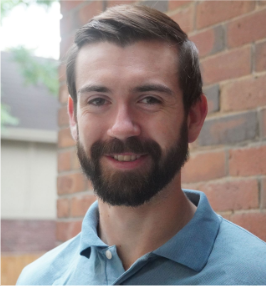
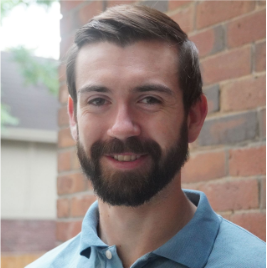
square-ify + tidy-ify
Making everything square and adding in pictures!

diff --git a/ejs/pages/people/body.html b/ejs/pages/people/body.html
@@ -3,7 +3,7 @@
   <h1>People</h1>
 
   <p>
-    The ART is made up of researchers across astrophysics, statistics, and computer science spanning a wide range of career stages. More information about individual members of the group can be found below.
+    The ART is made up of researchers across astrophysics, statistics, and data science spanning a wide range of career stages. More information about individual members of the group can be found below.
   </p>
 
   <br>
@@ -16,11 +16,9 @@
         <img class="person-thumbnail" src="/static/GwendolynEadie_2018.jpg" alt= "A picture of Gwendolyn Eadie.">
         <div class="card-section">
           <span class="h3">Gwendolyn Eadie</span>
-          <p>Gwen is an Assistant Professor of Astrostatistics, jointly appointed between the David A. Dunlap Department of Astronomy & Astrophysics (51%) 
-and the Department of Statistical Sciences (49%). Her research interests includes hierarchical Bayesian inference, generalized linear models, spatial point processes, and time
-series analysis for the study of the Milky Way Galaxy, ultra-diffuse galaxies, star clusters and globular clusters, stars and stellar flares,
- and fast radio bursts. 
-          <a href=https://gweneadie.com/>Personal Website</a>    
+          <p>
+Gwen is an Assistant Professor of Astrostatistics, jointly appointed between the <a href=https://www.astro.utoronto.ca/>David A. Dunlap Department of Astronomy & Astrophysics</a> (51%) and the <a href=https://www.statistics.utoronto.ca/>Department of Statistical Sciences</a> (49%). Her research interests includes hierarchical Bayesian inference, generalized linear models, spatial point processes, and time series analysis for the study of the Milky Way Galaxy, ultra-diffuse galaxies, star clusters and globular clusters, stars and stellar flares, and fast radio bursts. 
+<a href=https://gweneadie.com/>Personal Website</a>    
           </p>
         </div>
       </div>
@@ -30,11 +28,9 @@ series analysis for the study of the Milky Way Galaxy, ultra-diffuse galaxies, s
         <img class="person-thumbnail" src="/static/NSERC_Speagle_Joshua_thumbnail.jpg" alt= "A picture of Joshua Speagle.">
         <div class="card-section">
           <span class="h3">Joshua S. Speagle (沈佳士)</span>
-          <p> Josh is an Assistant Professor of Astrostatistics, jointly appointed between the Department of Statistical Sciences (51%) 
-and the David A. Dunlap Department of Astronomy & Astrophysics (49%). His work focuses on using a combination of astronomy, 
-statistics, data science, and AI to analze massive datasets containing
- billions of stars and galaxies to understand how galaxies like our own Milky Way form, behave, and evolve over time. 
-          <a href=https://joshspeagle.com/>Personal Website</a>    
+          <p> 
+Josh is an Assistant Professor of Astrostatistics, jointly appointed between the Department of Statistical Sciences (51%) and the David A. Dunlap Department of Astronomy & Astrophysics (49%). His work focuses on using a combination of astronomy, statistics, data science, and artificial intelligence (AI) to analze massive datasets containing billions of stars and galaxies to understand how galaxies like our own Milky Way (and the stars within it) form, behave, and evolve over time. 
+<a href=https://joshspeagle.com/>Personal Website</a>    
           </p>
         </div>
       </div>
@@ -48,10 +44,13 @@ statistics, data science, and AI to analze massive datasets containing
   <div class="grid-x grid-margin-x small-up-1 medium-up-2">
     <div class="cell">
       <div class="card">
-        <img class="person-thumbnail" />
+        <img class="person-thumbnail" src="/static/TonyH.jpg" alt= "A picture of Antonio Herrera Martin.">
         <div class="card-section">
           <span class="h3">Antonio Herrera Martin</span>
-          <p>Bio here...</p>
+          <p>
+Antonio (Tony) is a postdoctoral fellow in the Department of Statistical Sciences. He works in the ART as part of a <a href=https://canssi.ca/>Canadian Statistical Sciences Institute (CANSSI)</a> Collaborative Research Team led by Professor Gwendolyn Eadie, as well as in the <a href=https://chime-experiment.ca/en>Canadian Hydrogen Intensity Mapping Experiment (CHIME)</a>, which studies fast radio bursts. His primary research interest is in the study of data analysis methods for astrophysical data. Throughout his career, Antonio has researched a wide range of topics in physics and astronomy, including the evolution of the Universe, dark matter via gravitational lensing, the inference of parameters for gravitational waves, and the search of extrasolar planets using microlensing data. He received his PhD in Physics and Astronomy from the University of Glasgow. Outside of work, he enjoys practicing pixel art, software development, and dancing. 
+<a href=https://alfa33333.github.io/>Personal Website</a>    
+          </p>
         </div>
       </div>
     </div>
@@ -78,16 +77,22 @@ statistics, data science, and AI to analze massive datasets containing
         <img class="person-thumbnail" />
         <div class="card-section">
           <span class="h3">Tanveer Karim</span>
-          <p>Tanveer Karim is an Arts & Sciences Postdoctoral Fellow at the University of Toronto and a member of the Dark Energy Spectroscopic Instrument (DESI) collaboration and the Dark Energy Science Collaboration (DESC). His current research interest is developing frameworks to constrain cosmological models by cross-correlating multiple surveys and improving interpretability of the constraints to address various cosmological tensions. Previously, he has also extensively worked on target selection of emission-line galaxies for DESI, mitigation of observational systematics, as well as projects pertaining to the Milky Way and analysis of stellar rotation periods. Outside of research, Tanveer loves to learn languages, play board games and read books. <a href= https://tanveerkarim.com/>Personal Website</a></p>
+          <p>
+Tanveer is an Arts & Sciences Postdoctoral Fellow at the David A. Dunlap Department of Astronomy & Astrophysics and a member of the <a href=https://www.desi.lbl.gov/>Dark Energy Spectroscopic Instrument (DESI)</a> collaboration and the <a href=https://lsstdesc.org/>Dark Energy Science Collaboration (DESC)</a>. His current research interests include developing frameworks to constrain cosmological models by cross-correlating multiple surveys and improving interpretability of the constraints to address various cosmological tensions. Previously, he has also extensively worked on target selection of emission-line galaxies for DESI, mitigation of observational systematics, as well as projects pertaining to the Milky Way and analysis of stellar rotation periods. Outside of research, Tanveer loves to learn languages, play board games, and read books. 
+<a href= https://tanveerkarim.com/>Personal Website</a>
+          </p>
         </div>
       </div>
     </div>
     <div class="cell">
       <div class="card">
-        <img class="person-thumbnail" />
+        <img class="person-thumbnail" src="/static/KevinMcK_headshot.jpg" alt= "A picture of Kevin McKinnon.">
         <div class="card-section">
           <span class="h3">Kevin McKinnon</span>
-          <p>Kevin is a CITA Postdoctoral Researcher whose research focuses predominantly on understanding how the Milky Way formed and evolved through Galactic Archeology. On the dynamics side, he is currently using hierarchical Bayesian models to combine archival Hubble Space Telescope images with Gaia data to measure significantly improved astrometry, particularly for faint stars. For stellar parameters and chemistry, Kevin is working with the Sloan Digital Sky Survey V (SDSS-V) to help improve the APOGEE spectral reduction and abundance pipelines for the Milky Way Mapper program.</p>
+          <p>
+Kevin is a <a href=https://www.cita.utoronto.ca/>Canadian Institute for Theoretical Astrophysics (CITA)</a> Postdoctoral Researcher whose research focuses predominantly on understanding how the Milky Way formed and evolved through Galactic Archeology. On the dynamics side, he is currently using hierarchical Bayesian models to combine archival <a href=https://hubblesite.org/home>Hubble Space Telescope</a> images with <a href=https://www.esa.int/Science_Exploration/Space_Science/Gaia>Gaia</a> data to measure significantly improved astrometry, particularly for faint stars. For stellar parameters and chemistry, Kevin is working with the <a href=https://www.sdss.org/>Sloan Digital Sky Survey V (SDSS-V)</a> to help improve the <a href=https://www.sdss.org/instruments/apogee-spectrographs/>APOGEE</a> spectral reduction and abundance pipelines for the Milky Way Mapper program. 
+<a href= https://www.kevinmckinnon.com/>Personal Website</a>
+          </p>
         </div>
       </div>
     </div>
@@ -100,16 +105,12 @@ statistics, data science, and AI to analze massive datasets containing
   <div class="grid-x grid-margin-x small-up-1 medium-up-2">
     <div class="cell">
       <div class="card">
-        <img class="person-thumbnail" />
+        <img class="person-thumbnail" src="/static/AmandaCook_Profile.png" alt= "A picture of Amanda Cook.">
         <div class="card-section">
           <span class="h3">Amanda Cook</span>
-          <p> Amanda is a Ph.D. candidate in Astronomy and Astrophysics at the University of Toronto, 
-            supervised by Profs. Bryan Gaensler, Gwen Eadie, and Paul Scholz, and she is a member of 
-            the CHIME/FRB Collaboration. Amanda develops and employs statistical methods to solve astrophysics 
-            problems related to fast radio bursts, high-energy astrophysics, and circumgalactic media. 
-            Prior to entering graduate school, she received an honors mathematics and physics degree from
-            McGill University, and held a variety of summer research positions including at NASA JPL and the University of Kyoto. 
-            <a href="https://www.astro.utoronto.ca/~cook/">Personal Website</a>
+          <p> 
+Amanda is a Ph.D. candidate in the David A. Dunlap Department of Astronomy & Astrophysics supervised by Profs. <a href=https://bryangaensler.net/>Bryan Gaensler</a> (UCSC), Gwen Eadie, and <a href=https://www.yorku.ca/science/profiles/faculty/paul-scholz/>Paul Scholz</a> (York University). She is also a member of the CHIME/FRB Collaboration. Amanda develops and employs statistical methods to solve astrophysics problems related to fast radio bursts, high-energy astrophysics, and circumgalactic media. Prior to entering graduate school, she received an honors mathematics and physics degree from McGill University, and held a variety of summer research positions including at NASA JPL and the University of Kyoto. 
+<a href="https://www.astro.utoronto.ca/~cook/">Personal Website</a>
           </p>
         </div>
       </div>
@@ -143,48 +144,45 @@ statistics, data science, and AI to analze massive datasets containing
     </div>
     <div class="cell">
       <div class="card">
-        <img class="person-thumbnail" />
+        <img class="person-thumbnail" src="/static/slizewski.jpg" alt= "A picture of Anika Slizewski.">
         <div class="card-section">
           <span class="h3">Anika Slizewski</span>
-          <p>Anika is a second-year graduate student at the University of Toronto who works with Gwen Eadie on improving statistical methods of estimating masses of astronomical systems. They are interested in uncertainty analysis and have done work with outlier detection and dimensionality reduction of multiwavelength image data. Anika’s long-term goal is to develop a consistent and accurate way to combine data from multiple types of populations to estimate properties of the Galaxy.</p>
-        </div>
-      </div>
-    </div>
-    <div class="cell">
-      <div class="card">
-        <img class="person-thumbnail" />
-        <div class="card-section">
-          <span class="h3">Alex Laroche</span>
-          <p>Alex is a second year graduate student in the David A. Dunlap Department of Astronomy & Astrophysics co-supervised by Josh Speagle and Maria Drout. His research focuses on a combination of machine learning and stellar evolution. Specifically, he develops data-driven models to discover 'needles in a haystack': new, rare stellar populations in large-scale surveys. Subsequently, he attempts to understand the nature of these rare populations through a combination of follow-up observations and stellar evolution models. On the machine learning side, he has developed a purely data-driven model for low-resolution Gaia BP/RP spectra based on variational-autoencoders. On the stellar evolution side, he is focused on binary-stripped helium stars and carbon-enhanced metal poor stars. <a href=https://alexlaroche7.github.io/>Personal Website</a></p>
-        </div>
-      </div>
-    </div>
-    <div class="cell">
-      <div class="card">
-        <img class="person-thumbnail" />
-        <div class="card-section">
-          <span class="h3">Phil Van-Lane</span>
-          <p> Phil is a 2nd year PhD student in Astronomy & Astrophysics co-supervised by Drs. Eadie and Speagle, 
-and Dr. Ryan Cloutier from McMaster University. His research focuses on leveraging machine learning and statistical
- methods to develop stellar dating methods using rotation and magnetic activity data, with a focus on M dwarfs.
- His long-term goal is to build a catalogue of M dwarf ages, and use these constraints to inform exoplanet evolutionary analyses. 
-He previously completed his BSc at University of Waterloo in Earth Sciences with a Geophysics specialization,
- then worked in engineering consulting, software development, data engineering, and product management roles for several years before beginning his PhD in Fall 2022.
+          <p>
+Anika is a second-year graduate student at the David A. Dunlap Department of Astronomy & Astrophysics who works with Gwen Eadie on improving statistical methods of estimating masses of astronomical systems. They are interested in uncertainty analysis and have done work with outlier detection and dimensionality reduction of multiwavelength image data. Anika’s long-term goal is to develop a consistent and accurate way to combine data from multiple types of populations to estimate properties of the Galaxy.
           </p>
         </div>
       </div>
     </div>
     <div class="cell">
       <div class="card">
-        <img class="person-thumbnail" />
+        <img class="person-thumbnail" src="/static/Alex_Headshot.png" alt= "A picture of Alex Laroche.">
+        <div class="card-section">
+          <span class="h3">Alex Laroche</span>
+          <p>
+Alex is a second year graduate student in the David A. Dunlap Department of Astronomy & Astrophysics co-supervised by Josh Speagle and <a href=https://www.astro.utoronto.ca/~drout/>Maria Drout</a>. His research focuses on a combination of machine learning and stellar evolution. Specifically, he develops data-driven models to discover 'needles in a haystack': new, rare stellar populations in large-scale surveys. Subsequently, he attempts to understand the nature of these rare populations through a combination of follow-up observations and stellar evolution models. On the machine learning side, he has developed a purely data-driven model for low-resolution Gaia BP/RP spectra based on variational-autoencoders. On the stellar evolution side, he is focused on binary-stripped helium stars and carbon-enhanced metal poor stars. 
+<a href=https://alexlaroche7.github.io/>Personal Website</a>
+          </p>
+        </div>
+      </div>
+    </div>
+    <div class="cell">
+      <div class="card">
+        <img class="person-thumbnail" src="/static/Phil_Headshot.png" alt= "A picture of Phil Van-Lane.">
+        <div class="card-section">
+          <span class="h3">Phil Van-Lane</span>
+          <p> 
+Phil is a 2nd year PhD student in the David A. Dunlap Department of Astronomy & Astrophysics co-supervised by Drs. Eadie and Speagle and Dr. <a href=https://r-cloutier.github.io/>Ryan Cloutier</a> (McMaster). His research focuses on leveraging machine learning and statistical methods to develop stellar dating methods using rotation and magnetic activity data, with a focus on low-mass stars known as M dwarfs. His long-term goal is to build a catalogue of M dwarf ages and use these constraints to inform exoplanet evolutionary analyses. He previously completed his BSc at University of Waterloo in Earth Sciences with a Geophysics specialization, then worked in engineering consulting, software development, data engineering, and product management roles for several years before beginning his PhD in Fall 2022.
+          </p>
+        </div>
+      </div>
+    </div>
+    <div class="cell">
+      <div class="card">
+        <img class="person-thumbnail" src="/static/Maggie_Zhai_headshot.png" alt= "A picture of Maggie Zhai.">
         <div class="card-section">
           <span class="h3">Maggie Zhai</span>
-          <p> Maggie is a first-year PhD student in the Department of Statistical Sciences 
-            is co-advised by Professors Gwendolyn Eadie and Joshua Speagle. Her research broadly
-            focuses on citizen science projects to determine how to improve classification accuracy
-            through volunteer user input, and is interested in using these methods to improve image 
-            classification accuracy within Galaxy Zoo. Prior to UofT, she completed her MS in Statistics 
-            from San Diego State University and BS in Mathematics from UC San Diego.
+          <p> 
+Maggie is a first-year PhD student in the Department of Statistical Sciences co-advised by Professors Gwendolyn Eadie and Joshua Speagle. Her research broadly focuses on citizen science projects to determine how to improve classification accuracy through volunteer user input, and is interested in using these methods to improve image classification accuracy within <a href=https://www.zooniverse.org/projects/zookeeper/galaxy-zoo/>Galaxy Zoo</a>. Prior to joining the University of Toronto, she completed her MS in Statistics from San Diego State University and BS in Mathematics from UC San Diego.
           </p>
         </div>
       </div>
@@ -277,13 +275,12 @@ He previously completed his BSc at University of Waterloo in Earth Sciences with
   <ul>
     <li>Yihan (Christine) Wang</li>
     <li>Qianyu (Rita) Fan</li>
-    <li>Matt Kustec</li>
+    <li>Matthew Kustec</li>
     <li>Max Zabrodski</li>
     <li>Hannah Guo</li>
-    <li>Belle Pensamiento</li>
   </ul>
 
-  <h2>Alumni</h2>
+  <h2>Recent Alumni</h2>
   
   <div class="grid-x grid-margin-x small-up-1 medium-up-2">
     <div class="cell">
@@ -295,6 +292,18 @@ He previously completed his BSc at University of Waterloo in Earth Sciences with
         </div>
       </div>
     </div>
+    <div class="cell">
+      <div class="card">
+        <img class="person-thumbnail" src="/static/olga_st-onge.jpg" alt= "A picture of Olga St-Onge.">
+        <div class="card-section">
+          <span class="h3">Olga St-Onge</span>
+          <p>
+Olga is a recent graduate with a bachelor’s degree in physics and a minor in mathematics from Florida Atlantic University. Her primary interests are in extragalactic astronomy, cosmology, and relativity. She has experience with observational research into active galaxies & galaxy clusters and computational research into gravitational lensing. She is currently applying to graduate programs and seeking opportunities to participate in astrophysical research.
+          </p>
+        </div>
+      </div>
+    </div>
   </div>
+
   
 </section>
